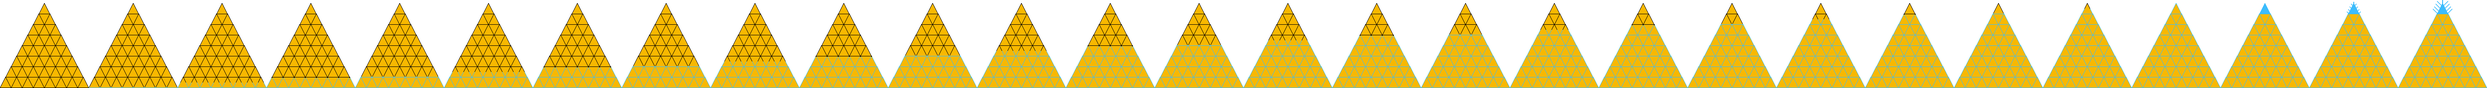
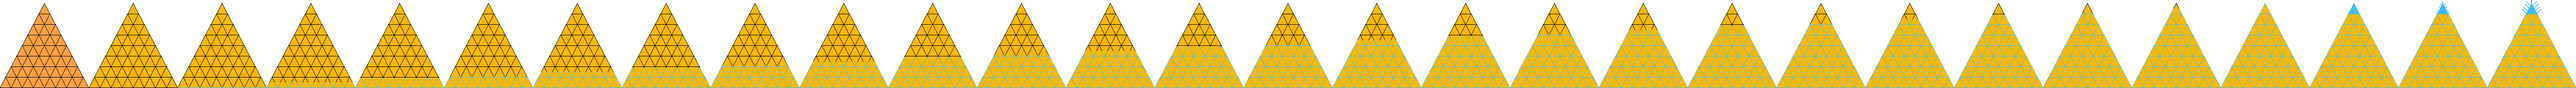
Switched pyramid default and solved colors. Removed ability to edit a solved pyramid.

diff --git a/src/scenes/PuzzleScene.js b/src/scenes/PuzzleScene.js
@@ -20,6 +20,8 @@ class PuzzleScene extends Phaser.Scene {
     constructor() {
         super({ key: 'PuzzleScene' });
 
+        this.puzzleIsSolved = false;
+
         this.seed = 0; // Default seed
         this.random = this.seededRandom(this.seed);
 
@@ -97,7 +99,7 @@ class PuzzleScene extends Phaser.Scene {
         if (!this.anims.exists('AnimatedPyramid')) {
             this.anims.create({
                 key: 'AnimatedPyramid',
-                frames: this.anims.generateFrameNumbers('PyramidSolved', { start: 0, end: 27 }),
+                frames: this.anims.generateFrameNumbers('PyramidSolved', { start: 0, end: 28 }),
                 frameRate: 10,
                 repeat: 0
             });
@@ -228,6 +230,10 @@ class PuzzleScene extends Phaser.Scene {
     }
 
     tileSwap() {
+        if(this.puzzleIsSolved){
+            return;
+        }
+        
         if(this.areTilesAdjacent(this.selectedTile[0], this.selectedTile[1], this.cursorRow, this.cursorCol)){
             this.pyramidoku[this.selectedTile[0]][this.selectedTile[1]].destroy();
             this.pyramidoku[this.selectedTile[0]][this.selectedTile[1]] = null;
@@ -364,12 +370,17 @@ class PuzzleScene extends Phaser.Scene {
                 }
             }
         }
-    
+        this.puzzleIsSolved = true;
+        this.clearSolvedHighlights();
         this.pyramid.play("AnimatedPyramid", true);
         return true;
     }
 
     rotateRow() {
+        if(this.puzzleIsSolved){
+            return;
+        }
+
         const lastIndex = this.pyramidoku[this.cursorRow].length - 1;
         const lastGlyph = this.pyramidoku[this.cursorRow][lastIndex];
 
@@ -392,6 +403,9 @@ class PuzzleScene extends Phaser.Scene {
     }
 
     highlightAdjacentTiles(row, col) {
+        if(this.puzzleIsSolved){
+            return;
+        }
         this.clearAdjHighlights(); 
     
         const adjacentPositions = [
@@ -435,6 +449,9 @@ class PuzzleScene extends Phaser.Scene {
     }
 
     highlightSolvedRows() {
+        if(this.puzzleIsSolved){
+            return;
+        }
         this.clearSolvedHighlights(); 
     
         for (let row = 0; row < this.pyramidoku.length; row++) {
